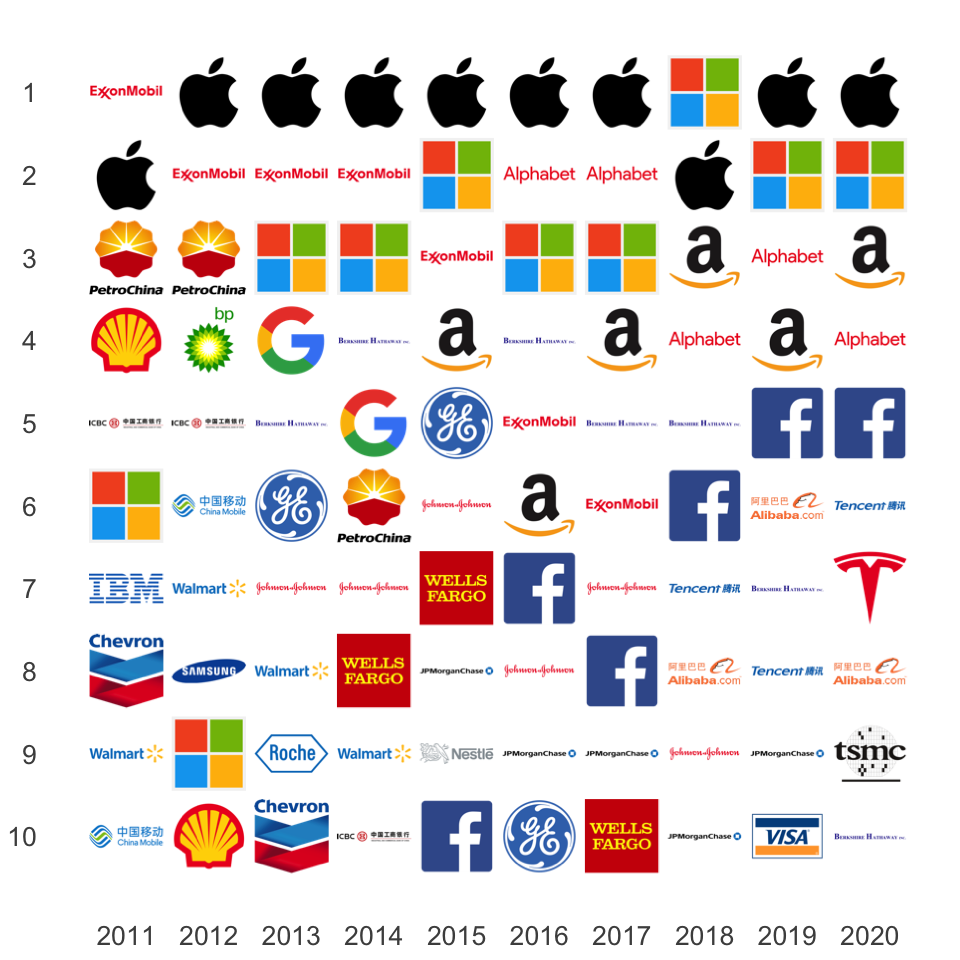
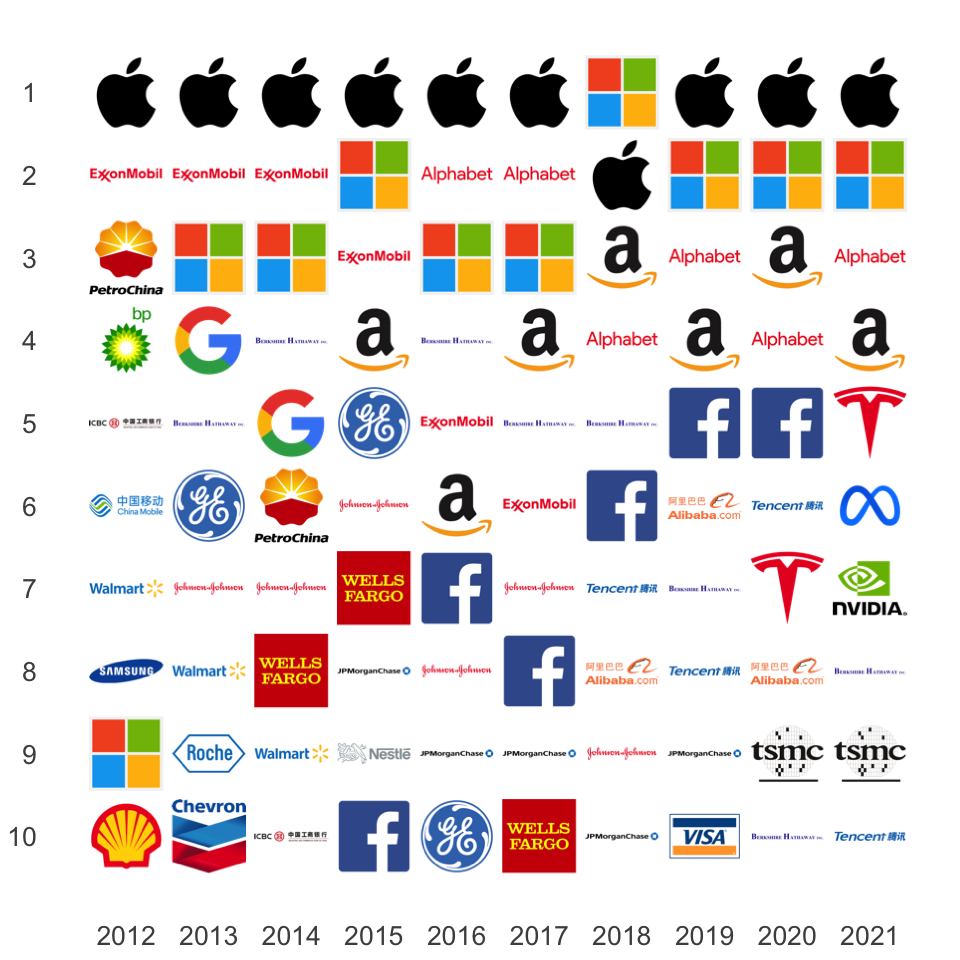
Fast forward to 2012-2021

diff --git a/README.md b/README.md
@@ -1,7 +1,7 @@
 Digitalization - Pipelines to Platforms
 ================
 
-# Rise of Digital Platforms Over 2011 to 2020
+# Rise of Digital Platforms Over 2012 to 2021
 
 Based on data in [List of public corporations by market capitalization @
 Wikipedia](https://en.wikipedia.org/wiki/List_of_public_corporations_by_market_capitalization)
@@ -40,8 +40,8 @@ tenyearsafter<-function(years, ranks, names, folder) {
     ) +
     
     scale_x_continuous(
-      limits = c(2010.5,2020.5),
-      breaks = seq(2011,2020,1)
+      limits = c(2011.5,2021.5),
+      breaks = seq(2012,2021,1)
     ) +
     scale_y_continuous(
       limits = c(0.5,10.5),
@@ -66,7 +66,7 @@ tenyearsafter<-function(years, ranks, names, folder) {
 # Rise of Digital Platforms / Companies
 
 Top 10 publicly traded companies worldwide wrt market capitalization and
-shifts over the years 2011 - 2020.
+shifts over the years 2012 - 2021.
 
 ``` r
 tenyearsafter(mcs$Year,
@@ -106,8 +106,8 @@ Zeitung](https://www.faz.net/aktuell/finanzen/aktien/erdoel-gigant-saudi-aramco-
 
 # Rise of Digital Platforms / Companies (GAFA)
 
-With the Google logo (instead of Alphabet) the GAFA effect becomes
-visible immediately.
+With the Google logo (instead of Alphabet) and the Facebook logo
+(instead of the Meta logo), the GAFA effect becomes visible immediately.
 
 |     |     |          |
 |----:|:---:|:---------|
@@ -119,7 +119,7 @@ visible immediately.
 ``` r
 mcsgafa = mcs
 
-gafa_codes <- c("Amazon", "Apple", "Facebook", "Alphabet")
+gafa_codes <- c("Amazon", "Apple", "Facebook", "Alphabet", "Meta")
 
 levels(mcsgafa$Company) <- c(levels(mcsgafa$Company), "Blank")
 
@@ -135,7 +135,8 @@ tenyearsafter(mcsgafa$Year,
                   gsub("&", "",
                     gsub("-", "",
                       gsub("alphabet", "google",
-                        tolower(cc))))),
+                        gsub("meta", "facebook",
+                          tolower(cc)))))),
                 mcsgafa$Company),
               "companies")
 ```
@@ -157,7 +158,7 @@ The GAFAM effect with the rise of Microsoft impresses even more.
 ``` r
 mcsgafam = mcs
 
-gafam_codes <- c("Amazon", "Apple", "Facebook", "Alphabet", "Microsoft")
+gafam_codes <- c("Amazon", "Apple", "Facebook", "Alphabet", "Microsoft", "Meta")
 
 levels(mcsgafam$Company) <- c(levels(mcsgafam$Company), "Blank")
 
@@ -173,7 +174,8 @@ tenyearsafter(mcsgafam$Year,
                   gsub("&", "",
                     gsub("-", "",
                       gsub("alphabet", "google",
-                        tolower(cc))))),
+                        gsub("meta", "facebook",
+                          tolower(cc)))))),
                 mcsgafam$Company),
               "companies")
 ```
@@ -183,8 +185,8 @@ tenyearsafter(mcsgafam$Year,
 # Rise of Digital Platforms / Industries
 
 In 2007 the Oil & Gas industry was represented by 5 companies among the
-top 10 in the ranking. In 2020 (end of year) the Information Technology
-industry takes 7 positions among the top 10.
+top 10 in the ranking. In 2021 (end of year) the Information Technology
+industry takes 8 positions among the top 10.
 
 ``` r
 tenyearsafter(mcs$Year,
@@ -201,18 +203,18 @@ tenyearsafter(mcs$Year,
 
 # Rise of Digital Platforms / Nations
 
-By the end of 2020 the United States alone take 7 places in the ranking.
+By the end of 2021 the United States alone take the first eight places
+in the ranking.
 
-Meanwhile China holds three positions in the top 10 with the platform
-companies Alibaba und Tencent as well as TSMC (Taiwan Semiconductor
-Manufacturing Company).
+Meanwhile China holds two positions in the top 10 with the platform
+companies Tencent and TSMC (Taiwan Semiconductor Manufacturing Company).
 
 ``` r
 tenyearsafter(mcs$Year,
               mcs$Rank,
               mapply(function(nn)
                 gsub(" ", "",
-                      tolower(nn)),
+                  tolower(nn)),
                 mcs$Nation),
               "nations")
 ```
